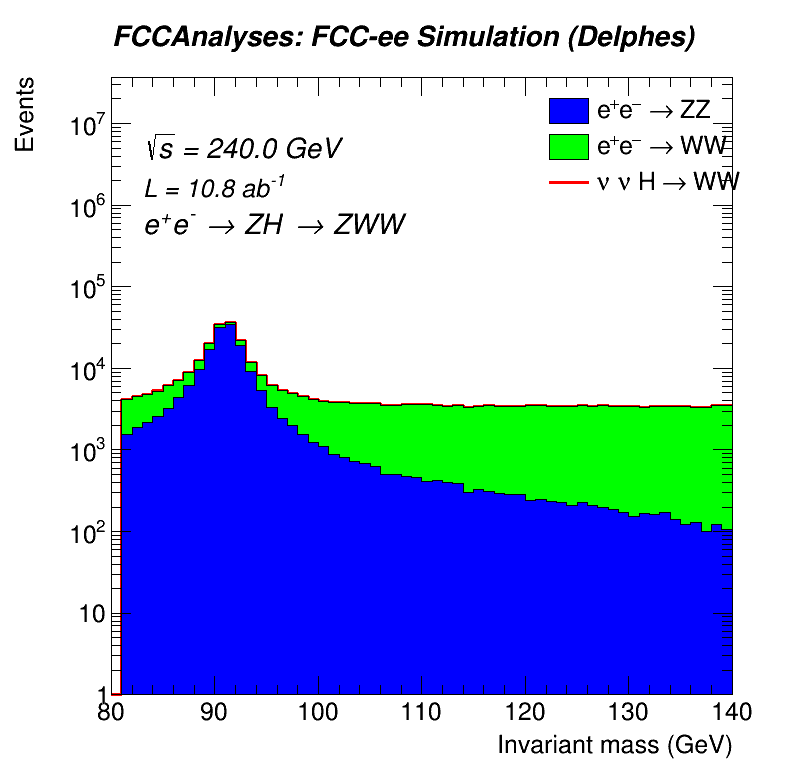
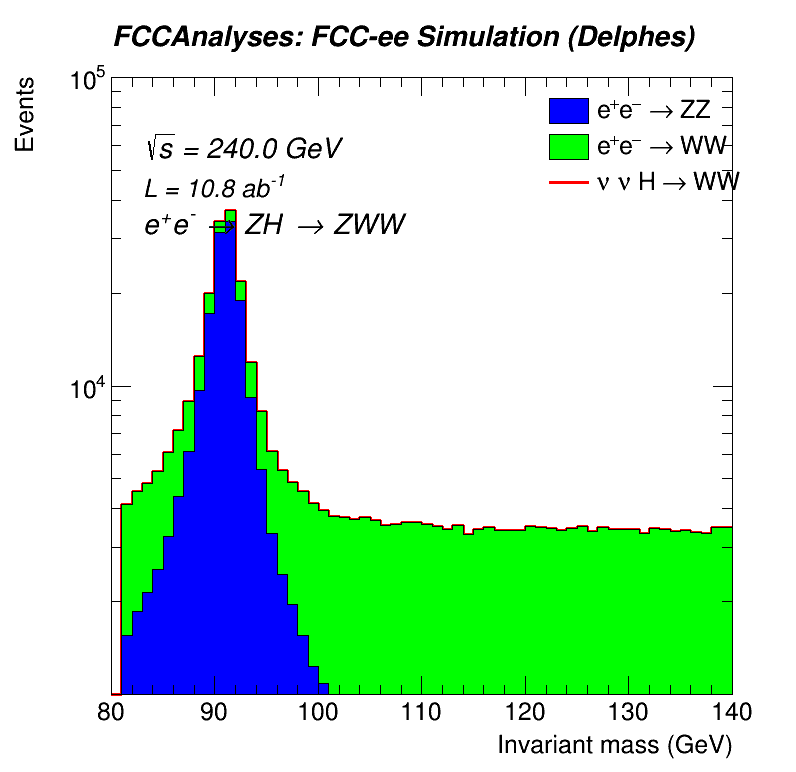
Need to figure out WW and ZZ backgrounds better...

diff --git a/h_ww/plots_root.py b/h_ww/plots_root.py
@@ -246,8 +246,8 @@ hists["invariant_mass"] = {
     "rebin":    1,
     "xmin":     80,
     "xmax":     140,
-    "ymin":     1,
-    #"ymax":     1e6,
+    "ymin":     1e3,
+    "ymax":     1e5,
     "xtitle":   "Invariant mass (GeV)",
     "ytitle":   "Events",
 }
